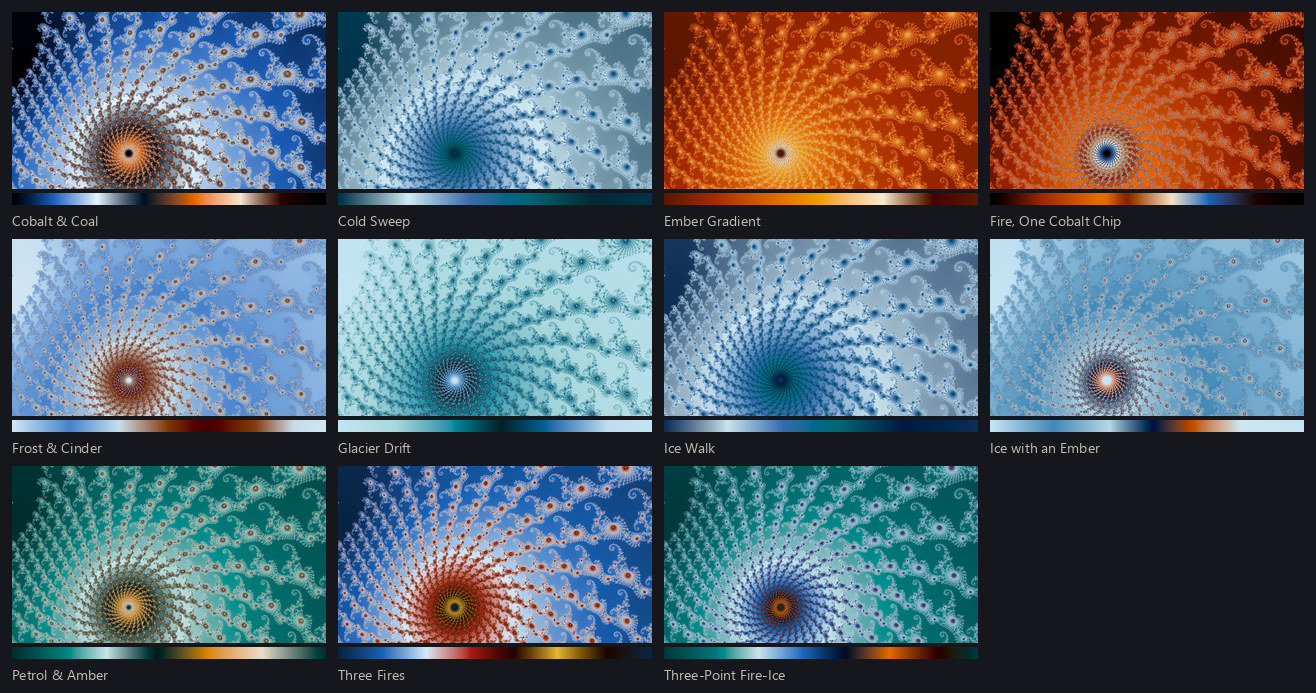
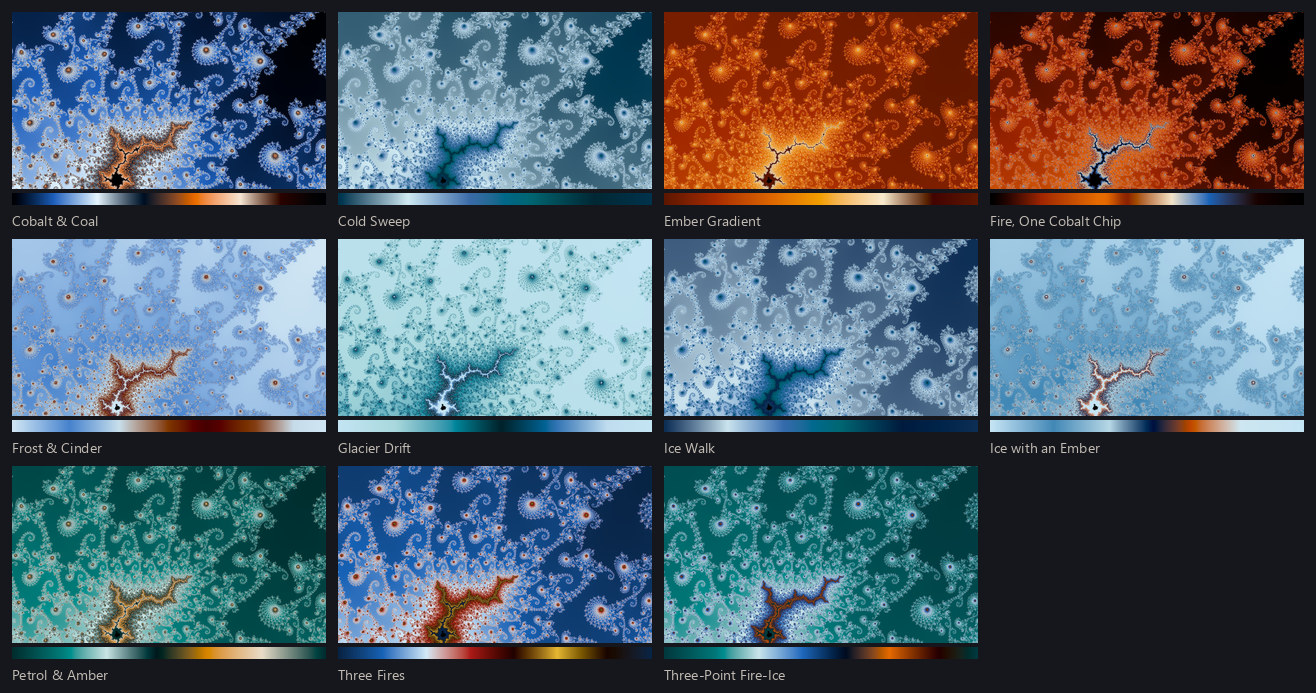
Stack two leveling pairs, and stand two figures on frames that spend the ramp
Matt's picks off the three contact sheets, and one correction to what the
phoenix sheet was for.

The leveling figure is two released rows now, stacked: release_v1|0023 comes
out too light and is pulled down, run10|0127 comes out too dark and is lifted.
Two rows say what the band is for where one only said that something moved. The
second label line is derived from the stamp's own sides, so a row out of band on
a different statistic says so, and _acted_release refuses a row whose verdict is
not released — which is how the old row's caption outlived its record.

The phoenix row was flat because of its frame, not its palette: that frame spent
0.176 of the stretched range where the two rows above it spend 0.57 and 0.59.
released_top_end:39 spends 0.57, so the three columns are untouched and all
three panels now show their whole map. palette-fire-ice moves to
blind_minibrot:17, which is not a spiral.

Report written to fractal-drive-sync/reports/color_palettes_review_addendum1_report.md

Claude-Session: https://claude.ai/code/session_01HsXZtGbfbEWmsEQzEuLbbL

diff --git a/explorer/palettes.js b/explorer/palettes.js
@@ -14,12 +14,12 @@
 // Positions are the map's own, not assumed evenly spaced. Colors are sRGB8.
 
 export const PROVENANCE = {
-  "baked": "2026-08-21",
+  "baked": "2026-08-22",
   "count": 108,
   "default_because": "the article's mandelbrot smooth figures are colored through twilight_shifted",
   "offered": 77,
   "source": "data/palettes/*.json",
-  "wallpapers_commit": "889fc7673bc4c608a0ad5476b1816e2287f5618a"
+  "wallpapers_commit": "a771e6a2fa4d2fec0003580d6cb8f914d81dac58"
 };
 
 export const DEFAULT_PALETTE = "twilight_shifted";
@@ -583,12 +583,6 @@ export const PALETTES = new Map([
     positions: [0.0, 0.03125, 0.0625, 0.09375, 0.125, 0.15625, 0.1875, 0.21875, 0.25, 0.28125, 0.3125, 0.34375, 0.375, 0.40625, 0.4375, 0.46875, 0.5, 0.53125, 0.5625, 0.59375, 0.625, 0.65625, 0.6875, 0.71875, 0.75, 0.78125, 0.8125, 0.84375, 0.875, 0.90625, 0.9375, 0.96875, 1.0],
     colors: [0, 0, 4, 4, 3, 18, 11, 7, 36, 21, 11, 55, 33, 12, 74, 47, 10, 91, 61, 9, 101, 74, 12, 107, 87, 16, 110, 100, 21, 110, 113, 25, 110, 125, 30, 109, 138, 34, 106, 151, 39, 102, 163, 44, 97, 176, 49, 91, 188, 55, 84, 199, 62, 76, 210, 70, 68, 219, 80, 59, 228, 90, 49, 235, 102, 40, 241, 115, 29, 246, 128, 19, 249, 142, 9, 251, 157, 7, 252, 172, 17, 251, 188, 33, 249, 203, 53, 245, 219, 76, 242, 234, 105, 243, 246, 138, 252, 255, 164],
   }],
-  ["jadanti", {
-    cyclic: true,
-    offered: false,
-    positions: [0.0, 0.00390625, 0.0078125, 0.01171875, 0.015625, 0.01953125, 0.0234375, 0.02734375, 0.03125, 0.03515625, 0.0390625, 0.04296875, 0.046875, 0.05078125, 0.0546875, 0.05859375, 0.0625, 0.06640625, 0.0703125, 0.07421875, 0.078125, 0.08203125, 0.0859375, 0.08984375, 0.09375, 0.09765625, 0.1015625, 0.10546875, 0.109375, 0.11328125, 0.1171875, 0.12109375, 0.125, 0.12890625, 0.1328125, 0.13671875, 0.140625, 0.14453125, 0.1484375, 0.15234375, 0.15625, 0.16015625, 0.1640625, 0.16796875, 0.171875, 0.17578125, 0.1796875, 0.18359375, 0.1875, 0.19140625, 0.1953125, 0.19921875, 0.203125, 0.20703125, 0.2109375, 0.21484375, 0.21875, 0.22265625, 0.2265625, 0.23046875, 0.234375, 0.23828125, 0.2421875, 0.24609375, 0.25, 0.25390625, 0.2578125, 0.26171875, 0.265625, 0.26953125, 0.2734375, 0.27734375, 0.28125, 0.28515625, 0.2890625, 0.29296875, 0.296875, 0.30078125, 0.3046875, 0.30859375, 0.3125, 0.31640625, 0.3203125, 0.32421875, 0.328125, 0.33203125, 0.3359375, 0.33984375, 0.34375, 0.34765625, 0.3515625, 0.35546875, 0.359375, 0.36328125, 0.3671875, 0.37109375, 0.375, 0.37890625, 0.3828125, 0.38671875, 0.390625, 0.39453125, 0.3984375, 0.40234375, 0.40625, 0.41015625, 0.4140625, 0.41796875, 0.421875, 0.42578125, 0.4296875, 0.43359375, 0.4375, 0.44140625, 0.4453125, 0.44921875, 0.453125, 0.45703125, 0.4609375, 0.46484375, 0.46875, 0.47265625, 0.4765625, 0.48046875, 0.484375, 0.48828125, 0.4921875, 0.49609375, 0.5, 0.50390625, 0.5078125, 0.51171875, 0.515625, 0.51953125, 0.5234375, 0.52734375, 0.53125, 0.53515625, 0.5390625, 0.54296875, 0.546875, 0.55078125, 0.5546875, 0.55859375, 0.5625, 0.56640625, 0.5703125, 0.57421875, 0.578125, 0.58203125, 0.5859375, 0.58984375, 0.59375, 0.59765625, 0.6015625, 0.60546875, 0.609375, 0.61328125, 0.6171875, 0.62109375, 0.625, 0.62890625, 0.6328125, 0.63671875, 0.640625, 0.64453125, 0.6484375, 0.65234375, 0.65625, 0.66015625, 0.6640625, 0.66796875, 0.671875, 0.67578125, 0.6796875, 0.68359375, 0.6875, 0.69140625, 0.6953125, 0.69921875, 0.703125, 0.70703125, 0.7109375, 0.71484375, 0.71875, 0.72265625, 0.7265625, 0.73046875, 0.734375, 0.73828125, 0.7421875, 0.74609375, 0.75, 0.75390625, 0.7578125, 0.76171875, 0.765625, 0.76953125, 0.7734375, 0.77734375, 0.78125, 0.78515625, 0.7890625, 0.79296875, 0.796875, 0.80078125, 0.8046875, 0.80859375, 0.8125, 0.81640625, 0.8203125, 0.82421875, 0.828125, 0.83203125, 0.8359375, 0.83984375, 0.84375, 0.84765625, 0.8515625, 0.85546875, 0.859375, 0.86328125, 0.8671875, 0.87109375, 0.875, 0.87890625, 0.8828125, 0.88671875, 0.890625, 0.89453125, 0.8984375, 0.90234375, 0.90625, 0.91015625, 0.9140625, 0.91796875, 0.921875, 0.92578125, 0.9296875, 0.93359375, 0.9375, 0.94140625, 0.9453125, 0.94921875, 0.953125, 0.95703125, 0.9609375, 0.96484375, 0.96875, 0.97265625, 0.9765625, 0.98046875, 0.984375, 0.98828125, 0.9921875, 0.99609375, 1.0],
-    colors: [1, 2, 2, 2, 2, 3, 4, 2, 4, 6, 2, 5, 9, 2, 5, 12, 2, 5, 15, 2, 4, 18, 1, 4, 22, 1, 3, 24, 2, 4, 25, 3, 6, 24, 5, 8, 22, 7, 12, 20, 9, 14, 18, 11, 17, 16, 13, 20, 14, 15, 23, 13, 17, 26, 16, 19, 28, 21, 19, 27, 25, 19, 25, 29, 18, 23, 33, 16, 21, 36, 15, 19, 40, 14, 18, 44, 15, 18, 46, 17, 20, 46, 20, 24, 44, 22, 28, 42, 25, 31, 39, 27, 34, 36, 29, 38, 33, 31, 41, 33, 33, 44, 38, 33, 42, 42, 32, 40, 46, 30, 38, 50, 29, 36, 54, 27, 33, 58, 26, 31, 62, 24, 29, 66, 23, 27, 70, 22, 25, 74, 21, 24, 78, 21, 23, 81, 21, 23, 85, 21, 22, 89, 21, 23, 93, 22, 23, 97, 23, 24, 101, 24, 25, 104, 25, 26, 108, 25, 27, 112, 26, 27, 116, 27, 29, 120, 28, 30, 124, 29, 31, 128, 30, 32, 131, 31, 33, 135, 32, 35, 139, 33, 36, 143, 34, 38, 147, 35, 39, 151, 37, 41, 155, 38, 42, 159, 39, 43, 163, 40, 44, 168, 40, 44, 172, 40, 43, 176, 39, 42, 181, 38, 41, 185, 38, 40, 190, 37, 39, 194, 37, 38, 199, 38, 38, 203, 39, 39, 207, 41, 41, 210, 46, 45, 212, 51, 50, 212, 58, 57, 211, 64, 63, 210, 69, 69, 208, 75, 74, 206, 80, 80, 205, 84, 85, 204, 89, 90, 203, 93, 94, 203, 97, 99, 204, 101, 103, 206, 105, 107, 208, 108, 110, 210, 112, 114, 211, 115, 117, 213, 119, 121, 214, 123, 125, 215, 126, 129, 217, 130, 132, 218, 133, 136, 219, 137, 140, 220, 141, 144, 222, 144, 147, 223, 148, 151, 224, 151, 154, 226, 155, 158, 227, 158, 162, 228, 162, 165, 229, 165, 169, 230, 169, 173, 231, 173, 176, 232, 176, 180, 233, 180, 184, 234, 183, 187, 236, 187, 191, 238, 190, 194, 240, 193, 197, 242, 197, 200, 244, 200, 204, 245, 203, 207, 247, 207, 210, 248, 210, 214, 249, 214, 218, 250, 217, 221, 250, 221, 225, 251, 225, 229, 251, 228, 233, 252, 232, 236, 252, 236, 240, 252, 239, 244, 252, 243, 247, 252, 239, 244, 252, 236, 240, 252, 232, 236, 251, 228, 233, 251, 225, 229, 250, 221, 225, 250, 217, 221, 249, 214, 218, 248, 210, 214, 247, 207, 210, 245, 203, 207, 244, 200, 204, 242, 197, 200, 240, 193, 197, 238, 190, 194, 236, 187, 191, 234, 183, 187, 233, 180, 184, 232, 176, 180, 231, 173, 176, 230, 169, 173, 229, 165, 169, 228, 162, 165, 227, 158, 162, 226, 155, 158, 224, 151, 154, 223, 148, 151, 222, 144, 147, 220, 141, 144, 219, 137, 140, 218, 133, 136, 217, 130, 132, 215, 126, 129, 214, 123, 125, 213, 119, 121, 211, 115, 117, 210, 112, 114, 208, 108, 110, 206, 105, 107, 204, 101, 103, 203, 97, 99, 203, 93, 94, 204, 89, 90, 205, 84, 85, 206, 80, 80, 208, 75, 74, 210, 69, 69, 211, 64, 63, 212, 58, 57, 212, 51, 50, 210, 46, 45, 207, 41, 41, 203, 39, 39, 199, 38, 38, 194, 37, 38, 190, 37, 39, 185, 38, 40, 181, 38, 41, 176, 39, 42, 172, 40, 43, 168, 40, 44, 163, 40, 44, 159, 39, 43, 155, 38, 42, 151, 37, 41, 147, 35, 39, 143, 34, 38, 139, 33, 36, 135, 32, 35, 131, 31, 33, 128, 30, 32, 124, 29, 31, 120, 28, 30, 116, 27, 29, 112, 26, 27, 108, 25, 27, 104, 25, 26, 101, 24, 25, 97, 23, 24, 93, 22, 23, 89, 21, 23, 85, 21, 22, 81, 21, 23, 78, 21, 23, 74, 21, 24, 70, 22, 25, 66, 23, 27, 62, 24, 29, 58, 26, 31, 54, 27, 33, 50, 29, 36, 46, 30, 38, 42, 32, 40, 38, 33, 42, 33, 33, 44, 33, 31, 41, 36, 29, 38, 39, 27, 34, 42, 25, 31, 44, 22, 28, 46, 20, 24, 46, 17, 20, 44, 15, 18, 40, 14, 18, 36, 15, 19, 33, 16, 21, 29, 18, 23, 25, 19, 25, 21, 19, 27, 16, 19, 28, 13, 17, 26, 14, 15, 23, 16, 13, 20, 18, 11, 17, 20, 9, 14, 22, 7, 12, 24, 5, 8, 25, 3, 6, 24, 2, 4, 22, 1, 3, 18, 1, 4, 15, 2, 4, 12, 2, 5, 9, 2, 5, 6, 2, 5, 4, 2, 4, 2, 2, 3, 1, 2, 2],
-  }],
   ["magma", {
     cyclic: false,
     offered: true,
@@ -672,5 +666,11 @@ export const PALETTES = new Map([
     offered: false,
     positions: [0.0, 0.00390625, 0.0078125, 0.01171875, 0.015625, 0.01953125, 0.0234375, 0.02734375, 0.03125, 0.03515625, 0.0390625, 0.04296875, 0.046875, 0.05078125, 0.0546875, 0.05859375, 0.0625, 0.06640625, 0.0703125, 0.07421875, 0.078125, 0.08203125, 0.0859375, 0.08984375, 0.09375, 0.09765625, 0.1015625, 0.10546875, 0.109375, 0.11328125, 0.1171875, 0.12109375, 0.125, 0.12890625, 0.1328125, 0.13671875, 0.140625, 0.14453125, 0.1484375, 0.15234375, 0.15625, 0.16015625, 0.1640625, 0.16796875, 0.171875, 0.17578125, 0.1796875, 0.18359375, 0.1875, 0.19140625, 0.1953125, 0.19921875, 0.203125, 0.20703125, 0.2109375, 0.21484375, 0.21875, 0.22265625, 0.2265625, 0.23046875, 0.234375, 0.23828125, 0.2421875, 0.24609375, 0.25, 0.25390625, 0.2578125, 0.26171875, 0.265625, 0.26953125, 0.2734375, 0.27734375, 0.28125, 0.28515625, 0.2890625, 0.29296875, 0.296875, 0.30078125, 0.3046875, 0.30859375, 0.3125, 0.31640625, 0.3203125, 0.32421875, 0.328125, 0.33203125, 0.3359375, 0.33984375, 0.34375, 0.34765625, 0.3515625, 0.35546875, 0.359375, 0.36328125, 0.3671875, 0.37109375, 0.375, 0.37890625, 0.3828125, 0.38671875, 0.390625, 0.39453125, 0.3984375, 0.40234375, 0.40625, 0.41015625, 0.4140625, 0.41796875, 0.421875, 0.42578125, 0.4296875, 0.43359375, 0.4375, 0.44140625, 0.4453125, 0.44921875, 0.453125, 0.45703125, 0.4609375, 0.46484375, 0.46875, 0.47265625, 0.4765625, 0.48046875, 0.484375, 0.48828125, 0.4921875, 0.49609375, 0.5, 0.50390625, 0.5078125, 0.51171875, 0.515625, 0.51953125, 0.5234375, 0.52734375, 0.53125, 0.53515625, 0.5390625, 0.54296875, 0.546875, 0.55078125, 0.5546875, 0.55859375, 0.5625, 0.56640625, 0.5703125, 0.57421875, 0.578125, 0.58203125, 0.5859375, 0.58984375, 0.59375, 0.59765625, 0.6015625, 0.60546875, 0.609375, 0.61328125, 0.6171875, 0.62109375, 0.625, 0.62890625, 0.6328125, 0.63671875, 0.640625, 0.64453125, 0.6484375, 0.65234375, 0.65625, 0.66015625, 0.6640625, 0.66796875, 0.671875, 0.67578125, 0.6796875, 0.68359375, 0.6875, 0.69140625, 0.6953125, 0.69921875, 0.703125, 0.70703125, 0.7109375, 0.71484375, 0.71875, 0.72265625, 0.7265625, 0.73046875, 0.734375, 0.73828125, 0.7421875, 0.74609375, 0.75, 0.75390625, 0.7578125, 0.76171875, 0.765625, 0.76953125, 0.7734375, 0.77734375, 0.78125, 0.78515625, 0.7890625, 0.79296875, 0.796875, 0.80078125, 0.8046875, 0.80859375, 0.8125, 0.81640625, 0.8203125, 0.82421875, 0.828125, 0.83203125, 0.8359375, 0.83984375, 0.84375, 0.84765625, 0.8515625, 0.85546875, 0.859375, 0.86328125, 0.8671875, 0.87109375, 0.875, 0.87890625, 0.8828125, 0.88671875, 0.890625, 0.89453125, 0.8984375, 0.90234375, 0.90625, 0.91015625, 0.9140625, 0.91796875, 0.921875, 0.92578125, 0.9296875, 0.93359375, 0.9375, 0.94140625, 0.9453125, 0.94921875, 0.953125, 0.95703125, 0.9609375, 0.96484375, 0.96875, 0.97265625, 0.9765625, 0.98046875, 0.984375, 0.98828125, 0.9921875, 0.99609375, 1.0],
     colors: [216, 254, 255, 211, 253, 255, 206, 252, 255, 201, 250, 255, 197, 248, 254, 193, 246, 254, 190, 244, 254, 187, 242, 254, 184, 240, 254, 181, 238, 254, 178, 236, 253, 175, 234, 253, 172, 231, 253, 169, 229, 252, 167, 227, 251, 164, 225, 250, 161, 222, 249, 158, 220, 248, 156, 218, 246, 153, 215, 245, 151, 213, 243, 148, 211, 241, 146, 209, 239, 143, 207, 237, 141, 204, 235, 138, 202, 232, 136, 200, 230, 134, 198, 228, 131, 195, 225, 129, 193, 223, 127, 191, 220, 125, 189, 218, 122, 187, 215, 120, 185, 213, 118, 182, 210, 116, 180, 208, 114, 178, 205, 112, 176, 203, 111, 173, 200, 109, 171, 198, 107, 169, 196, 106, 167, 193, 105, 164, 191, 104, 162, 188, 103, 160, 186, 102, 157, 183, 101, 155, 181, 100, 153, 179, 98, 151, 176, 95, 149, 173, 92, 147, 170, 90, 145, 167, 88, 144, 163, 88, 143, 158, 89, 142, 154, 93, 142, 149, 98, 141, 146, 103, 139, 144, 106, 137, 144, 106, 134, 143, 105, 132, 141, 104, 130, 140, 102, 128, 138, 100, 126, 135, 97, 124, 133, 95, 122, 130, 93, 120, 128, 91, 118, 125, 88, 117, 122, 86, 115, 119, 84, 114, 115, 82, 112, 112, 81, 111, 108, 80, 112, 104, 82, 114, 104, 84, 116, 105, 86, 118, 107, 88, 120, 108, 90, 122, 110, 92, 124, 112, 94, 126, 114, 96, 128, 116, 98, 130, 117, 100, 132, 119, 102, 134, 121, 105, 136, 123, 107, 138, 124, 109, 140, 126, 111, 142, 128, 114, 145, 130, 116, 147, 132, 118, 149, 134, 121, 151, 136, 123, 153, 138, 125, 155, 139, 127, 157, 141, 130, 159, 143, 132, 161, 145, 134, 163, 147, 137, 166, 148, 139, 168, 150, 141, 170, 152, 143, 172, 153, 146, 174, 155, 148, 176, 157, 150, 179, 158, 152, 181, 160, 154, 183, 162, 157, 185, 164, 159, 187, 166, 161, 190, 168, 163, 192, 170, 165, 194, 172, 168, 196, 175, 170, 198, 177, 172, 201, 180, 174, 203, 183, 176, 205, 186, 178, 207, 189, 180, 209, 192, 182, 211, 196, 184, 212, 201, 183, 210, 204, 182, 208, 204, 181, 205, 204, 180, 202, 203, 180, 200, 201, 179, 197, 200, 179, 195, 199, 179, 197, 200, 180, 200, 201, 180, 202, 203, 181, 205, 204, 182, 208, 204, 183, 210, 204, 184, 212, 201, 182, 211, 196, 180, 209, 192, 178, 207, 189, 176, 205, 186, 174, 203, 183, 172, 201, 180, 170, 198, 177, 168, 196, 175, 165, 194, 172, 163, 192, 170, 161, 190, 168, 159, 187, 166, 157, 185, 164, 154, 183, 162, 152, 181, 160, 150, 179, 158, 148, 176, 157, 146, 174, 155, 143, 172, 153, 141, 170, 152, 139, 168, 150, 137, 166, 148, 134, 163, 147, 132, 161, 145, 130, 159, 143, 127, 157, 141, 125, 155, 139, 123, 153, 138, 121, 151, 136, 118, 149, 134, 116, 147, 132, 114, 145, 130, 111, 142, 128, 109, 140, 126, 107, 138, 124, 105, 136, 123, 102, 134, 121, 100, 132, 119, 98, 130, 117, 96, 128, 116, 94, 126, 114, 92, 124, 112, 90, 122, 110, 88, 120, 108, 86, 118, 107, 84, 116, 105, 82, 114, 104, 80, 112, 104, 81, 111, 108, 82, 112, 112, 84, 114, 115, 86, 115, 119, 88, 117, 122, 91, 118, 125, 93, 120, 128, 95, 122, 130, 97, 124, 133, 100, 126, 135, 102, 128, 138, 104, 130, 140, 105, 132, 141, 106, 134, 143, 106, 137, 144, 103, 139, 144, 98, 141, 146, 93, 142, 149, 89, 142, 154, 88, 143, 158, 88, 144, 163, 90, 145, 167, 92, 147, 170, 95, 149, 173, 98, 151, 176, 100, 153, 179, 101, 155, 181, 102, 157, 183, 103, 160, 186, 104, 162, 188, 105, 164, 191, 106, 167, 193, 107, 169, 196, 109, 171, 198, 111, 173, 200, 112, 176, 203, 114, 178, 205, 116, 180, 208, 118, 182, 210, 120, 185, 213, 122, 187, 215, 125, 189, 218, 127, 191, 220, 129, 193, 223, 131, 195, 225, 134, 198, 228, 136, 200, 230, 138, 202, 232, 141, 204, 235, 143, 207, 237, 146, 209, 239, 148, 211, 241, 151, 213, 243, 153, 215, 245, 156, 218, 246, 158, 220, 248, 161, 222, 249, 164, 225, 250, 167, 227, 251, 169, 229, 252, 172, 231, 253, 175, 234, 253, 178, 236, 253, 181, 238, 254, 184, 240, 254, 187, 242, 254, 190, 244, 254, 193, 246, 254, 197, 248, 254, 201, 250, 255, 206, 252, 255, 211, 253, 255, 216, 254, 255],
+  }],
+  ["wheelance", {
+    cyclic: true,
+    offered: false,
+    positions: [0.0, 0.00390625, 0.0078125, 0.01171875, 0.015625, 0.01953125, 0.0234375, 0.02734375, 0.03125, 0.03515625, 0.0390625, 0.04296875, 0.046875, 0.05078125, 0.0546875, 0.05859375, 0.0625, 0.06640625, 0.0703125, 0.07421875, 0.078125, 0.08203125, 0.0859375, 0.08984375, 0.09375, 0.09765625, 0.1015625, 0.10546875, 0.109375, 0.11328125, 0.1171875, 0.12109375, 0.125, 0.12890625, 0.1328125, 0.13671875, 0.140625, 0.14453125, 0.1484375, 0.15234375, 0.15625, 0.16015625, 0.1640625, 0.16796875, 0.171875, 0.17578125, 0.1796875, 0.18359375, 0.1875, 0.19140625, 0.1953125, 0.19921875, 0.203125, 0.20703125, 0.2109375, 0.21484375, 0.21875, 0.22265625, 0.2265625, 0.23046875, 0.234375, 0.23828125, 0.2421875, 0.24609375, 0.25, 0.25390625, 0.2578125, 0.26171875, 0.265625, 0.26953125, 0.2734375, 0.27734375, 0.28125, 0.28515625, 0.2890625, 0.29296875, 0.296875, 0.30078125, 0.3046875, 0.30859375, 0.3125, 0.31640625, 0.3203125, 0.32421875, 0.328125, 0.33203125, 0.3359375, 0.33984375, 0.34375, 0.34765625, 0.3515625, 0.35546875, 0.359375, 0.36328125, 0.3671875, 0.37109375, 0.375, 0.37890625, 0.3828125, 0.38671875, 0.390625, 0.39453125, 0.3984375, 0.40234375, 0.40625, 0.41015625, 0.4140625, 0.41796875, 0.421875, 0.42578125, 0.4296875, 0.43359375, 0.4375, 0.44140625, 0.4453125, 0.44921875, 0.453125, 0.45703125, 0.4609375, 0.46484375, 0.46875, 0.47265625, 0.4765625, 0.48046875, 0.484375, 0.48828125, 0.4921875, 0.49609375, 0.5, 0.50390625, 0.5078125, 0.51171875, 0.515625, 0.51953125, 0.5234375, 0.52734375, 0.53125, 0.53515625, 0.5390625, 0.54296875, 0.546875, 0.55078125, 0.5546875, 0.55859375, 0.5625, 0.56640625, 0.5703125, 0.57421875, 0.578125, 0.58203125, 0.5859375, 0.58984375, 0.59375, 0.59765625, 0.6015625, 0.60546875, 0.609375, 0.61328125, 0.6171875, 0.62109375, 0.625, 0.62890625, 0.6328125, 0.63671875, 0.640625, 0.64453125, 0.6484375, 0.65234375, 0.65625, 0.66015625, 0.6640625, 0.66796875, 0.671875, 0.67578125, 0.6796875, 0.68359375, 0.6875, 0.69140625, 0.6953125, 0.69921875, 0.703125, 0.70703125, 0.7109375, 0.71484375, 0.71875, 0.72265625, 0.7265625, 0.73046875, 0.734375, 0.73828125, 0.7421875, 0.74609375, 0.75, 0.75390625, 0.7578125, 0.76171875, 0.765625, 0.76953125, 0.7734375, 0.77734375, 0.78125, 0.78515625, 0.7890625, 0.79296875, 0.796875, 0.80078125, 0.8046875, 0.80859375, 0.8125, 0.81640625, 0.8203125, 0.82421875, 0.828125, 0.83203125, 0.8359375, 0.83984375, 0.84375, 0.84765625, 0.8515625, 0.85546875, 0.859375, 0.86328125, 0.8671875, 0.87109375, 0.875, 0.87890625, 0.8828125, 0.88671875, 0.890625, 0.89453125, 0.8984375, 0.90234375, 0.90625, 0.91015625, 0.9140625, 0.91796875, 0.921875, 0.92578125, 0.9296875, 0.93359375, 0.9375, 0.94140625, 0.9453125, 0.94921875, 0.953125, 0.95703125, 0.9609375, 0.96484375, 0.96875, 0.97265625, 0.9765625, 0.98046875, 0.984375, 0.98828125, 0.9921875, 0.99609375, 1.0],
+    colors: [236, 251, 241, 241, 251, 232, 244, 250, 222, 247, 248, 211, 249, 247, 200, 251, 245, 189, 252, 242, 178, 253, 239, 166, 253, 235, 155, 253, 231, 145, 253, 226, 136, 253, 221, 128, 252, 216, 121, 252, 210, 115, 251, 205, 109, 249, 200, 103, 247, 195, 97, 242, 191, 91, 237, 188, 85, 230, 186, 79, 223, 184, 73, 217, 183, 66, 210, 181, 60, 203, 178, 54, 197, 175, 49, 192, 172, 45, 187, 168, 43, 183, 164, 42, 179, 160, 44, 176, 156, 47, 174, 152, 51, 171, 148, 57, 170, 144, 63, 168, 141, 70, 167, 138, 78, 166, 136, 86, 164, 135, 95, 162, 134, 104, 159, 134, 113, 155, 134, 121, 149, 135, 129, 143, 137, 137, 135, 139, 143, 127, 140, 148, 118, 141, 153, 111, 140, 155, 118, 137, 153, 126, 133, 149, 134, 131, 144, 140, 129, 137, 146, 127, 130, 149, 127, 121, 151, 127, 112, 153, 127, 103, 153, 126, 93, 153, 126, 83, 153, 125, 72, 152, 124, 60, 150, 121, 48, 147, 118, 37, 143, 114, 28, 140, 110, 22, 137, 106, 19, 134, 101, 19, 131, 97, 22, 129, 94, 26, 126, 90, 32, 124, 87, 39, 123, 85, 47, 121, 82, 55, 120, 81, 62, 120, 79, 70, 120, 78, 77, 120, 76, 83, 121, 74, 89, 123, 71, 94, 125, 68, 99, 127, 64, 102, 129, 60, 106, 131, 56, 110, 131, 52, 114, 131, 48, 120, 130, 45, 126, 129, 42, 132, 126, 40, 138, 124, 38, 145, 121, 36, 150, 116, 34, 153, 116, 35, 146, 117, 36, 138, 118, 37, 131, 119, 38, 124, 120, 39, 116, 121, 40, 109, 121, 41, 102, 121, 42, 95, 121, 44, 88, 119, 45, 81, 118, 47, 75, 116, 49, 69, 114, 51, 62, 112, 53, 56, 109, 54, 49, 106, 55, 42, 104, 51, 40, 104, 46, 42, 101, 42, 39, 97, 42, 32, 93, 40, 26, 90, 36, 24, 87, 31, 22, 83, 27, 20, 80, 24, 17, 76, 20, 14, 72, 17, 11, 68, 14, 8, 63, 11, 6, 59, 9, 5, 54, 7, 3, 50, 5, 2, 45, 4, 2, 41, 3, 1, 36, 3, 1, 32, 2, 1, 27, 2, 1, 23, 2, 1, 19, 1, 0, 15, 1, 0, 11, 1, 0, 15, 1, 0, 19, 1, 0, 23, 2, 1, 27, 2, 1, 32, 2, 1, 36, 3, 1, 41, 3, 1, 45, 4, 2, 50, 5, 2, 54, 7, 3, 59, 9, 5, 63, 11, 6, 68, 14, 8, 72, 17, 11, 76, 20, 14, 80, 24, 17, 83, 27, 20, 87, 31, 22, 90, 36, 24, 93, 40, 26, 97, 42, 32, 101, 42, 39, 104, 46, 42, 104, 51, 40, 106, 55, 42, 109, 54, 49, 112, 53, 56, 114, 51, 62, 116, 49, 69, 118, 47, 75, 119, 45, 81, 121, 44, 88, 121, 42, 95, 121, 41, 102, 121, 40, 109, 120, 39, 116, 119, 38, 124, 118, 37, 131, 117, 36, 138, 116, 35, 146, 116, 34, 153, 121, 36, 150, 124, 38, 145, 126, 40, 138, 129, 42, 132, 130, 45, 126, 131, 48, 120, 131, 52, 114, 131, 56, 110, 129, 60, 106, 127, 64, 102, 125, 68, 99, 123, 71, 94, 121, 74, 89, 120, 76, 83, 120, 78, 77, 120, 79, 70, 120, 81, 62, 121, 82, 55, 123, 85, 47, 124, 87, 39, 126, 90, 32, 129, 94, 26, 131, 97, 22, 134, 101, 19, 137, 106, 19, 140, 110, 22, 143, 114, 28, 147, 118, 37, 150, 121, 48, 152, 124, 60, 153, 125, 72, 153, 126, 83, 153, 126, 93, 153, 127, 103, 151, 127, 112, 149, 127, 121, 146, 127, 130, 140, 129, 137, 134, 131, 144, 126, 133, 149, 118, 137, 153, 111, 140, 155, 118, 141, 153, 127, 140, 148, 135, 139, 143, 143, 137, 137, 149, 135, 129, 155, 134, 121, 159, 134, 113, 162, 134, 104, 164, 135, 95, 166, 136, 86, 167, 138, 78, 168, 141, 70, 170, 144, 63, 171, 148, 57, 174, 152, 51, 176, 156, 47, 179, 160, 44, 183, 164, 42, 187, 168, 43, 192, 172, 45, 197, 175, 49, 203, 178, 54, 210, 181, 60, 217, 183, 66, 223, 184, 73, 230, 186, 79, 237, 188, 85, 242, 191, 91, 247, 195, 97, 249, 200, 103, 251, 205, 109, 252, 210, 115, 252, 216, 121, 253, 221, 128, 253, 226, 136, 253, 231, 145, 253, 235, 155, 253, 239, 166, 252, 242, 178, 251, 245, 189, 249, 247, 200, 247, 248, 211, 244, 250, 222, 241, 251, 232, 236, 251, 241],
   }],
 ]);

diff --git a/article/color-palettes.html b/article/color-palettes.html
@@ -114,7 +114,7 @@
       </figure>
 
       <figure class="figure" data-figure="palette-fire-ice">
-        <a class="figure-open" href="../explorer/index.html?v=2&amp;x=-0.7466411371311648&amp;y=-0.11370180258878615&amp;w=7.873162460422087e-05&amp;p=Cobalt%20%26%20Coal" title="open in fractal explorer" aria-label="open in fractal explorer"><img src="../assets/images/figures/palette-fire-ice.jpg" width="1316" height="693" alt="One Mandelbrot location drawn eleven times, once under each fire-ice palette, with a strip of the palette under every tile."><span class="figure-open-mark" aria-hidden="true">↗</span></a>
+        <a class="figure-open" href="../explorer/index.html?v=2&amp;x=-0.745664851251208303163536352617&amp;y=0.112994057903853818971697158017&amp;w=2.734974e-08&amp;p=Cobalt%20%26%20Coal" title="open in fractal explorer" aria-label="open in fractal explorer"><img src="../assets/images/figures/palette-fire-ice.jpg" width="1316" height="693" alt="One Mandelbrot location drawn eleven times, once under each fire-ice palette, with a strip of the palette under every tile."><span class="figure-open-mark" aria-hidden="true">↗</span></a>
         <figcaption>One field under every palette the fire-ice batch produced. The geometry is fixed and the ramp beneath each tile is the whole of what changed; a mood family is a hue vocabulary rather than a look.</figcaption>
       </figure>
 
@@ -209,8 +209,8 @@
     reads a different place in the ramp at every sample.</p>
 
       <figure class="figure" data-figure="palette-autolevel">
-        <a class="figure-open" href="../explorer/index.html?v=2&amp;f=julia&amp;cx=-1.2517612129804818&amp;cy=0.038979112285470574&amp;x=-0.17270050515969365&amp;y=-0.0039062499999999237&amp;w=1.2387394870317157&amp;p=jadanti" title="open in fractal explorer" aria-label="open in fractal explorer"><img src="../assets/images/figures/palette-autolevel.jpg" width="1316" height="430" alt="One released wallpaper twice: as the chosen palette rendered it, and after the leveling operator moved its tone."><span class="figure-open-mark" aria-hidden="true">↗</span></a>
-        <figcaption>One released wallpaper before and after the operator acted, with the three statistics it measured on the first. Inside the band it does nothing at all and hands back the render it was given.</figcaption>
+        <a class="figure-open" href="../explorer/index.html?v=2&amp;x=-0.800778181691469&amp;y=0.18229482640825037&amp;w=0.0003856391990486722&amp;p=wheelance" title="open in fractal explorer" aria-label="open in fractal explorer"><img src="../assets/images/figures/palette-autolevel.jpg" width="1316" height="848" alt="Two released wallpapers, one above the other, each drawn twice: as the chosen palette rendered it, and after the leveling operator moved its tone."><span class="figure-open-mark" aria-hidden="true">↗</span></a>
+        <figcaption>Two released wallpapers before and after the operator acted, with the three statistics it measured on each as it was rendered. The top row came out too light and is pulled down; the bottom came out too dark and is lifted. Inside the band it does nothing at all and hands back the render it was given.</figcaption>
       </figure>
   </section>
 

diff --git a/explorer/catalog.js b/explorer/catalog.js
@@ -8,10 +8,10 @@
 // dynamical plane opens at.
 
 export const PROVENANCE = {
-  "baked": "2026-08-21",
+  "baked": "2026-08-22",
   "constants_from": "data/anchors.jsonl",
   "modes_from": "fractal-engine modes",
-  "wallpapers_commit": "889fc7673bc4c608a0ad5476b1816e2287f5618a"
+  "wallpapers_commit": "a771e6a2fa4d2fec0003580d6cb8f914d81dac58"
 };
 
 export const MODES = new Map([

diff --git a/builder/palettes.py b/builder/palettes.py
@@ -76,11 +76,21 @@ SUPERSAMPLE = 2
 
 #: The frames every single-location figure stands on, addressed by the store file and
 #: the line inside it. All seven are rows Matt rated 4 by hand; none is a machine pick.
+#: `fire_ice` is deliberately not a spiral *(Matt, 2026-08-22)*: the rated-4 mandelbrot
+#: rows are overwhelmingly spirals, and a page whose figures are all one shape teaches
+#: the shape rather than the subject.
+#:
+#: `phoenix` is chosen for how much of a ramp it spends *(Matt, 2026-08-22)*. The frame
+#: this row used to carry covered 0.176 of the stretched range between its 5th and 95th
+#: percentiles, so each of its three panels showed a sliver of its column's map and the
+#: row taught nothing; this one covers 0.57, which is what the mandelbrot and julia rows
+#: above it cover. Of the 33 phoenix frames rated 4, the old one ranked 25th by that
+#: measure.
 FRAMES = {
     "mandelbrot": ("pool_draw_human_good", 451),
     "julia": ("bucketed_correction", 57),
-    "phoenix": ("dramatic_palettes", 258),
-    "fire_ice": ("bucketed_correction", 136),
+    "phoenix": ("released_top_end", 39),
+    "fire_ice": ("blind_minibrot", 17),
     "params": ("dramatic_palettes", 48),
     "spread": ("blind_minibrot", 56),
     "neighborhood": ("pool_draw_human_good", 683),
@@ -590,63 +600,114 @@ def neighborhood_ranked() -> Drawn:
     return Drawn(sheets.save(sheet, sheet_path("palette-neighborhood")), provenance)
 
 
-def autolevel_pair() -> Drawn:
-    """One release the operator acted on, as rendered and after it moved the tone."""
-    record, stamp = _acted_release()
-    before, after = _autolevel_panels(record, stamp)
+def autolevel_pairs() -> Drawn:
+    """Two releases the operator acted on, as rendered and after it moved the tone.
+
+    Stacked rather than side by side *(Matt, 2026-08-22)*: one pair says the operator
+    moved something, and two say what it is *for* — the same band pulls a picture that
+    came out too light down and lifts one that came out too dark, and a reader sees a rule
+    rather than an adjustment. Both rows are released rows, and both are drawn exactly as
+    their record says.
+    """
+    rows = [_acted_release(run, candidate) for run, candidate in ACTED]
     panel = panels(2)
-    sheet, drawer = sheets.canvas(
-        SHEET_WIDTH, sheets.PAD + panel[1] + sheets.CAPTION_TWO + sheets.PAD
-    )
-    measured = stamp["measured"]
-    curve = stamp["curve"]
-    for index, (path, lines) in enumerate(
-        (
-            (
-                before,
-                [
-                    "as rendered",
-                    f"black {measured['black_pt']:.2f} · white {measured['white_pt']:.2f}"
-                    f" · median {measured['mid']:.2f}",
-                ],
-            ),
-            (
-                after,
-                [
-                    "after leveling",
-                    f"median {_moved(measured['mid'], curve['mid_target'])} to "
-                    f"{curve['mid_target']:.2f} · both ends held",
-                ],
-            ),
-        )
-    ):
-        x = sheets.PAD + index * (panel[0] + sheets.PAD)
-        sheet.paste(sheets.fitted(path, panel), (x, sheets.PAD))
-        sheets.label(drawer, x, sheets.PAD + panel[1] + 6, lines)
-    band = stamp["band"]
+    cell = panel[1] + sheets.CAPTION_TWO
+    sheet, drawer = sheets.canvas(SHEET_WIDTH, sheets.PAD + len(rows) * (cell + sheets.PAD))
     provenance = [
-        "One release record, drawn twice: the picture as the chosen palette renders it, and "
-        "the picture the autolevel operator returned. Both are that row's own recipe at the "
-        "size the run drew, so this is the only figure of this page whose panels are the "
-        "pictures a record describes rather than a neutral redraw.",
-        f"Left panel: released wallpaper {record['run']}|release|{record['candidate']} — "
-        f"colormap {record['recipe']['colormap']}, mode {record['recipe']['mode']}, mirror "
+        "Two release records, each drawn twice: the picture as the chosen palette renders "
+        "it, and the picture the autolevel operator returned. Every panel is that row's own "
+        "recipe at the size the run drew, so this is the only figure of this page whose "
+        "panels are the pictures a record describes rather than a neutral redraw. The "
+        "representative panel is the first row's left, colormap "
+        f"{rows[0][0]['recipe']['colormap']}."
+    ]
+    for index, (record, stamp) in enumerate(rows):
+        before, after = _autolevel_panels(record, stamp)
+        measured, curve = stamp["measured"], stamp["curve"]
+        top = sheets.PAD + index * (cell + sheets.PAD)
+        for column, (path, lines) in enumerate(
+            (
+                (
+                    before,
+                    [
+                        "as rendered",
+                        f"black {measured['black_pt']:.2f} · white {measured['white_pt']:.2f}"
+                        f" · median {measured['mid']:.2f}",
+                    ],
+                ),
+                (after, ["after leveling", _what_moved(measured, curve)]),
+            )
+        ):
+            x = sheets.PAD + column * (panel[0] + sheets.PAD)
+            sheet.paste(sheets.fitted(path, panel), (x, top))
+            sheets.label(drawer, x, top + panel[1] + 6, lines)
+        provenance.extend(_autolevel_provenance(record, stamp, index, name=index == 0))
+    return Drawn(sheets.save(sheet, sheet_path("palette-autolevel")), provenance)
+
+
+#: How a row of the figure is named in its own provenance, so a line says which picture
+#: it is about without a reader counting panels.
+ROW_WORDS = ("Top row", "Bottom row")
+
+
+def _what_moved(measured: dict, curve: dict) -> str:
+    """The second label line: which of the three statistics the operator took, and where.
+
+    Built from the stamp's own `sides` rather than written down, because the two rows
+    are out of band on different statistics — which is the reason there are two.
+    """
+    moved = []
+    if curve["sides"].get("black_pt"):
+        moved.append(
+            f"black point {_moved(measured['black_pt'], curve['out_ends'][0])} to "
+            f"{curve['out_ends'][0]:.2f}"
+        )
+    if curve["sides"].get("white_pt"):
+        moved.append(
+            f"white point {_moved(measured['white_pt'], curve['out_ends'][1])} to "
+            f"{curve['out_ends'][1]:.2f}"
+        )
+    if curve["sides"].get("mid"):
+        moved.append(
+            f"median {_moved(measured['mid'], curve['mid_target'])} to {curve['mid_target']:.2f}"
+        )
+    ends = [name for name in ("black_pt", "white_pt") if not curve["sides"].get(name)]
+    if len(ends) == 2:
+        moved.append("both ends held")
+    elif ends:
+        moved.append(f"{'black' if ends[0] == 'black_pt' else 'white'} point held")
+    return " · ".join(moved)
+
+
+def _autolevel_provenance(record: dict, stamp: dict, index: int, *, name: bool) -> list[str]:
+    """The three lines one row of the figure records.
+
+    Only the first row spells the word `colormap`. A sheet gets one link, at its
+    representative panel, and `explorer.py` bakes a map into the browser page for every
+    line that says the word — see this module's docstring.
+    """
+    measured, curve, band = stamp["measured"], stamp["curve"], stamp["band"]
+    where = ROW_WORDS[index]
+    geometry = record["recipe"]["render"]
+    return [
+        f"{where}, left panel: released wallpaper "
+        f"{record['run']}|release|{record['candidate']} — "
+        f"{'colormap' if name else 'palette'} {record['recipe']['colormap']}, mode "
+        f"{record['recipe']['mode']}, mirror "
         f"{str(record['recipe'].get('mirror', False)).lower()}, maxiter "
-        f"{record['recipe']['render']['maxiter']}, {record['recipe']['render']['resolution'][0]}x"
-        f"{record['recipe']['render']['resolution'][1]} supersample "
-        f"{record['recipe']['render']['supersample']}.",
-        "Right panel: the same field and the same map, rendered again through the levelled "
-        "stops the row's autolevel stamp rebuilds — operator "
+        f"{geometry['maxiter']}, {geometry['resolution'][0]}x{geometry['resolution'][1]} "
+        f"supersample {geometry['supersample']}.",
+        f"{where}, right panel: the same field and the same map, rendered again through the "
+        "levelled stops the row's autolevel stamp rebuilds — operator "
         f"{stamp['operator']}, band {band['path']} sha256 {band['sha256'][:16]}… derived "
         f"{band['derived']} over {band['n_images']} pictures; exponent "
         f"{curve['exponent']:.4f}, out_ends {curve['out_ends'][0]:.4f}/"
         f"{curve['out_ends'][1]:.4f}, chroma retain {stamp['chroma_cap']['retain']}.",
-        f"Measured on the left panel: black_pt {measured['black_pt']:.6f}, white_pt "
+        f"{where}, measured on the left panel: black_pt {measured['black_pt']:.6f}, white_pt "
         f"{measured['white_pt']:.6f}, mid {measured['mid']:.6f}. Out of band on "
         + ", ".join(name for name, side in curve["sides"].items() if side)
         + ".",
     ]
-    return Drawn(sheets.save(sheet, sheet_path("palette-autolevel")), provenance)
 
 
 def generator_batch() -> Drawn:
@@ -682,25 +743,28 @@ def _moved(was: float, now: float) -> str:
     return "lifted" if now > was else "pulled down"
 
 
-def _acted_release() -> tuple[dict, dict]:
+def _acted_release(run: str, candidate: str) -> tuple[dict, dict]:
     """A released row the operator acted on, and its stamp. Named, not searched for.
 
-    The row is written down rather than picked by a rule, because "the first acted row in
-    file order" is a rule whose answer moves the day a run is added, and a figure's subject
-    should not.
+    The rows are written down rather than picked by a rule, because "the acted rows the
+    operator moved furthest" is a rule whose answer moves the day a run is added, and a
+    figure's subject should not.
     """
-    record = release_record(ACTED_RUN, ACTED_CANDIDATE)
+    record = release_record(run, candidate)
     stamp = record.get("autolevel")
     if not stamp or not stamp.get("acted"):
+        raise PaletteError(f"{run}|release|{candidate} carries no autolevel stamp that acted")
+    if record.get("verdict") != "released":
         raise PaletteError(
-            f"{ACTED_RUN}|release|{ACTED_CANDIDATE} carries no autolevel stamp that acted"
+            f"{run}|release|{candidate} is {record.get('verdict')}, and the caption says released"
         )
     return record, stamp
 
 
-#: The release the leveling figure is drawn from.
-ACTED_RUN = "run3"
-ACTED_CANDIDATE = "0025"
+#: The two releases the leveling figure is drawn from *(Matt, 2026-08-22, picked off
+#: `sheet-autolevel-pairs`)*. One came out too light and is pulled down; the other came
+#: out too dark and is lifted, and the second is why there are two rows.
+ACTED = (("release_v1", "0023"), ("run10", "0127"))
 
 
 def _autolevel_panels(record: dict, stamp: dict) -> tuple[Path, Path]:
@@ -783,7 +847,7 @@ MAKERS = {
     "palette-params": palette_params,
     "palette-spread": palette_spread,
     "palette-neighborhood": neighborhood_ranked,
-    "palette-autolevel": autolevel_pair,
+    "palette-autolevel": autolevel_pairs,
     "palette-generator-batch": generator_batch,
 }
 
